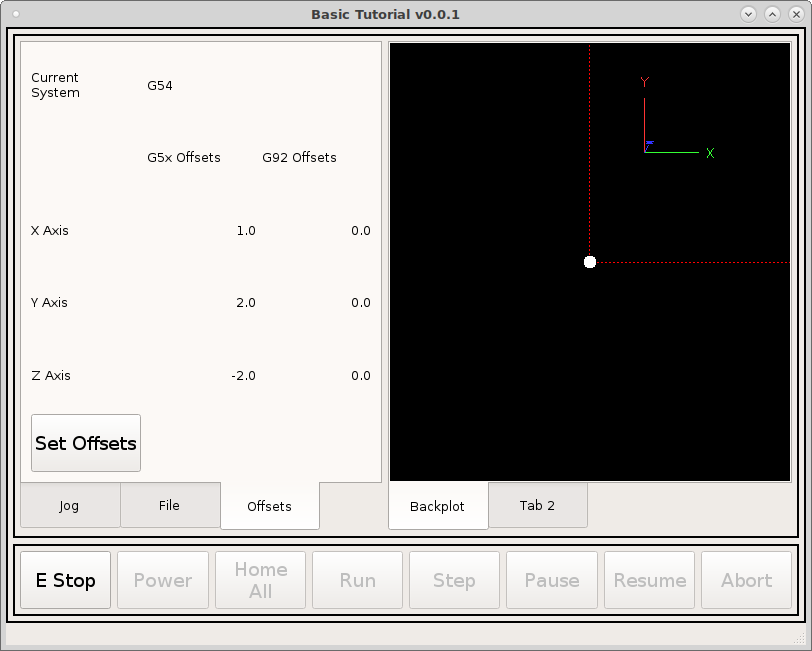
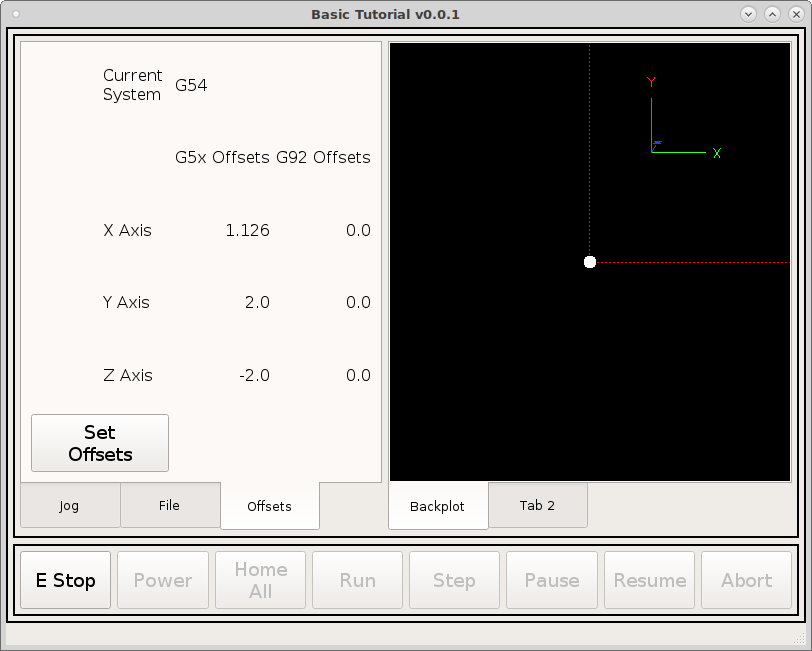
DOC: make coordinate setting for touch screen

diff --git a/docs/source/tutorials/basic_vcp_07.rst b/docs/source/tutorials/basic_vcp_07.rst
@@ -13,12 +13,28 @@ Change the `CurrentTabText` to Offsets. Add a grid layout then set the tab
 layout to grid and morph the grid layout into a frame as before.
 
 
-Now in the grid set the button size in the stylesheet::
+Now in the grid set the button size and label text size in the stylesheet::
 
     DialogButton {
         min-height: 50px;
         min-width: 50px;
         font: 14pt "DejaVu Sans";
+    }
+    ActionButton {
+        min-height: 50px;
+        min-width: 50px;
+        font: 14pt "DejaVu Sans";
+    }
+    MDIButton {
+        min-height: 50px;
+        min-width: 50px;
+        font: 14pt "DejaVu Sans";
+    }
+    StatusLabel {
+        font: 12pt "DejaVu Sans";
+    }
+    QLabel {
+        font: 12pt "DejaVu Sans";
     }
 
 Add a DialogButton and set the dialogName to ``set_work_offsets``.
@@ -73,4 +89,50 @@ Now when we run we can see the offsets that are in effect.
 .. image:: images/vcp1-run-12.png
    :align: center
    :scale: 60 %
+
+The ``set_work_offsets`` dialog as you can see in this screen shot is designed
+for a mouse so delete that and we will make some MDI buttons for the offsets tab.
+
+.. image:: images/vcp1-run-13.png
+   :align: center
+   :scale: 60 %
+
+Add three MDIButtons next to the Axis labels and put the following for the
+`MDICommand`::
+
+    G10L20P0X0
+    G10L20P0Y0
+    G10L20P0Z0
+
+.. image:: images/vcp1-designer-31.png
+   :align: center
+   :scale: 40 %
+
+Now when we run the VCP and jog around a bit we can set the coordinate system.
+
+.. image:: images/vcp1-run-14.png
+   :align: center
+   :scale: 60 %
+
+Now add three more MDIButtons to the right of the offsets and add the following
+for the MDICommand::
+
+    G10L2P0X0
+    G10L2P0Y0
+    G10L2P0Z0
+
+.. image:: images/vcp1-designer-32.png
+   :align: center
+   :scale: 40 %
+
+Now we can set and clear the current coordinate system offsets.
+
+.. image:: images/vcp1-run-15.png
+   :align: center
+   :scale: 60 %
+
+.. Note:: I changed the coordinate system status label rule expression to 
+    ``"Set\n"+["G53","G54","G55","G56","G57","G58","G59","G59.1","G59.2","G59.3"][ch[0]]``
+    and moved it over the Set MDI buttons.
+
 
